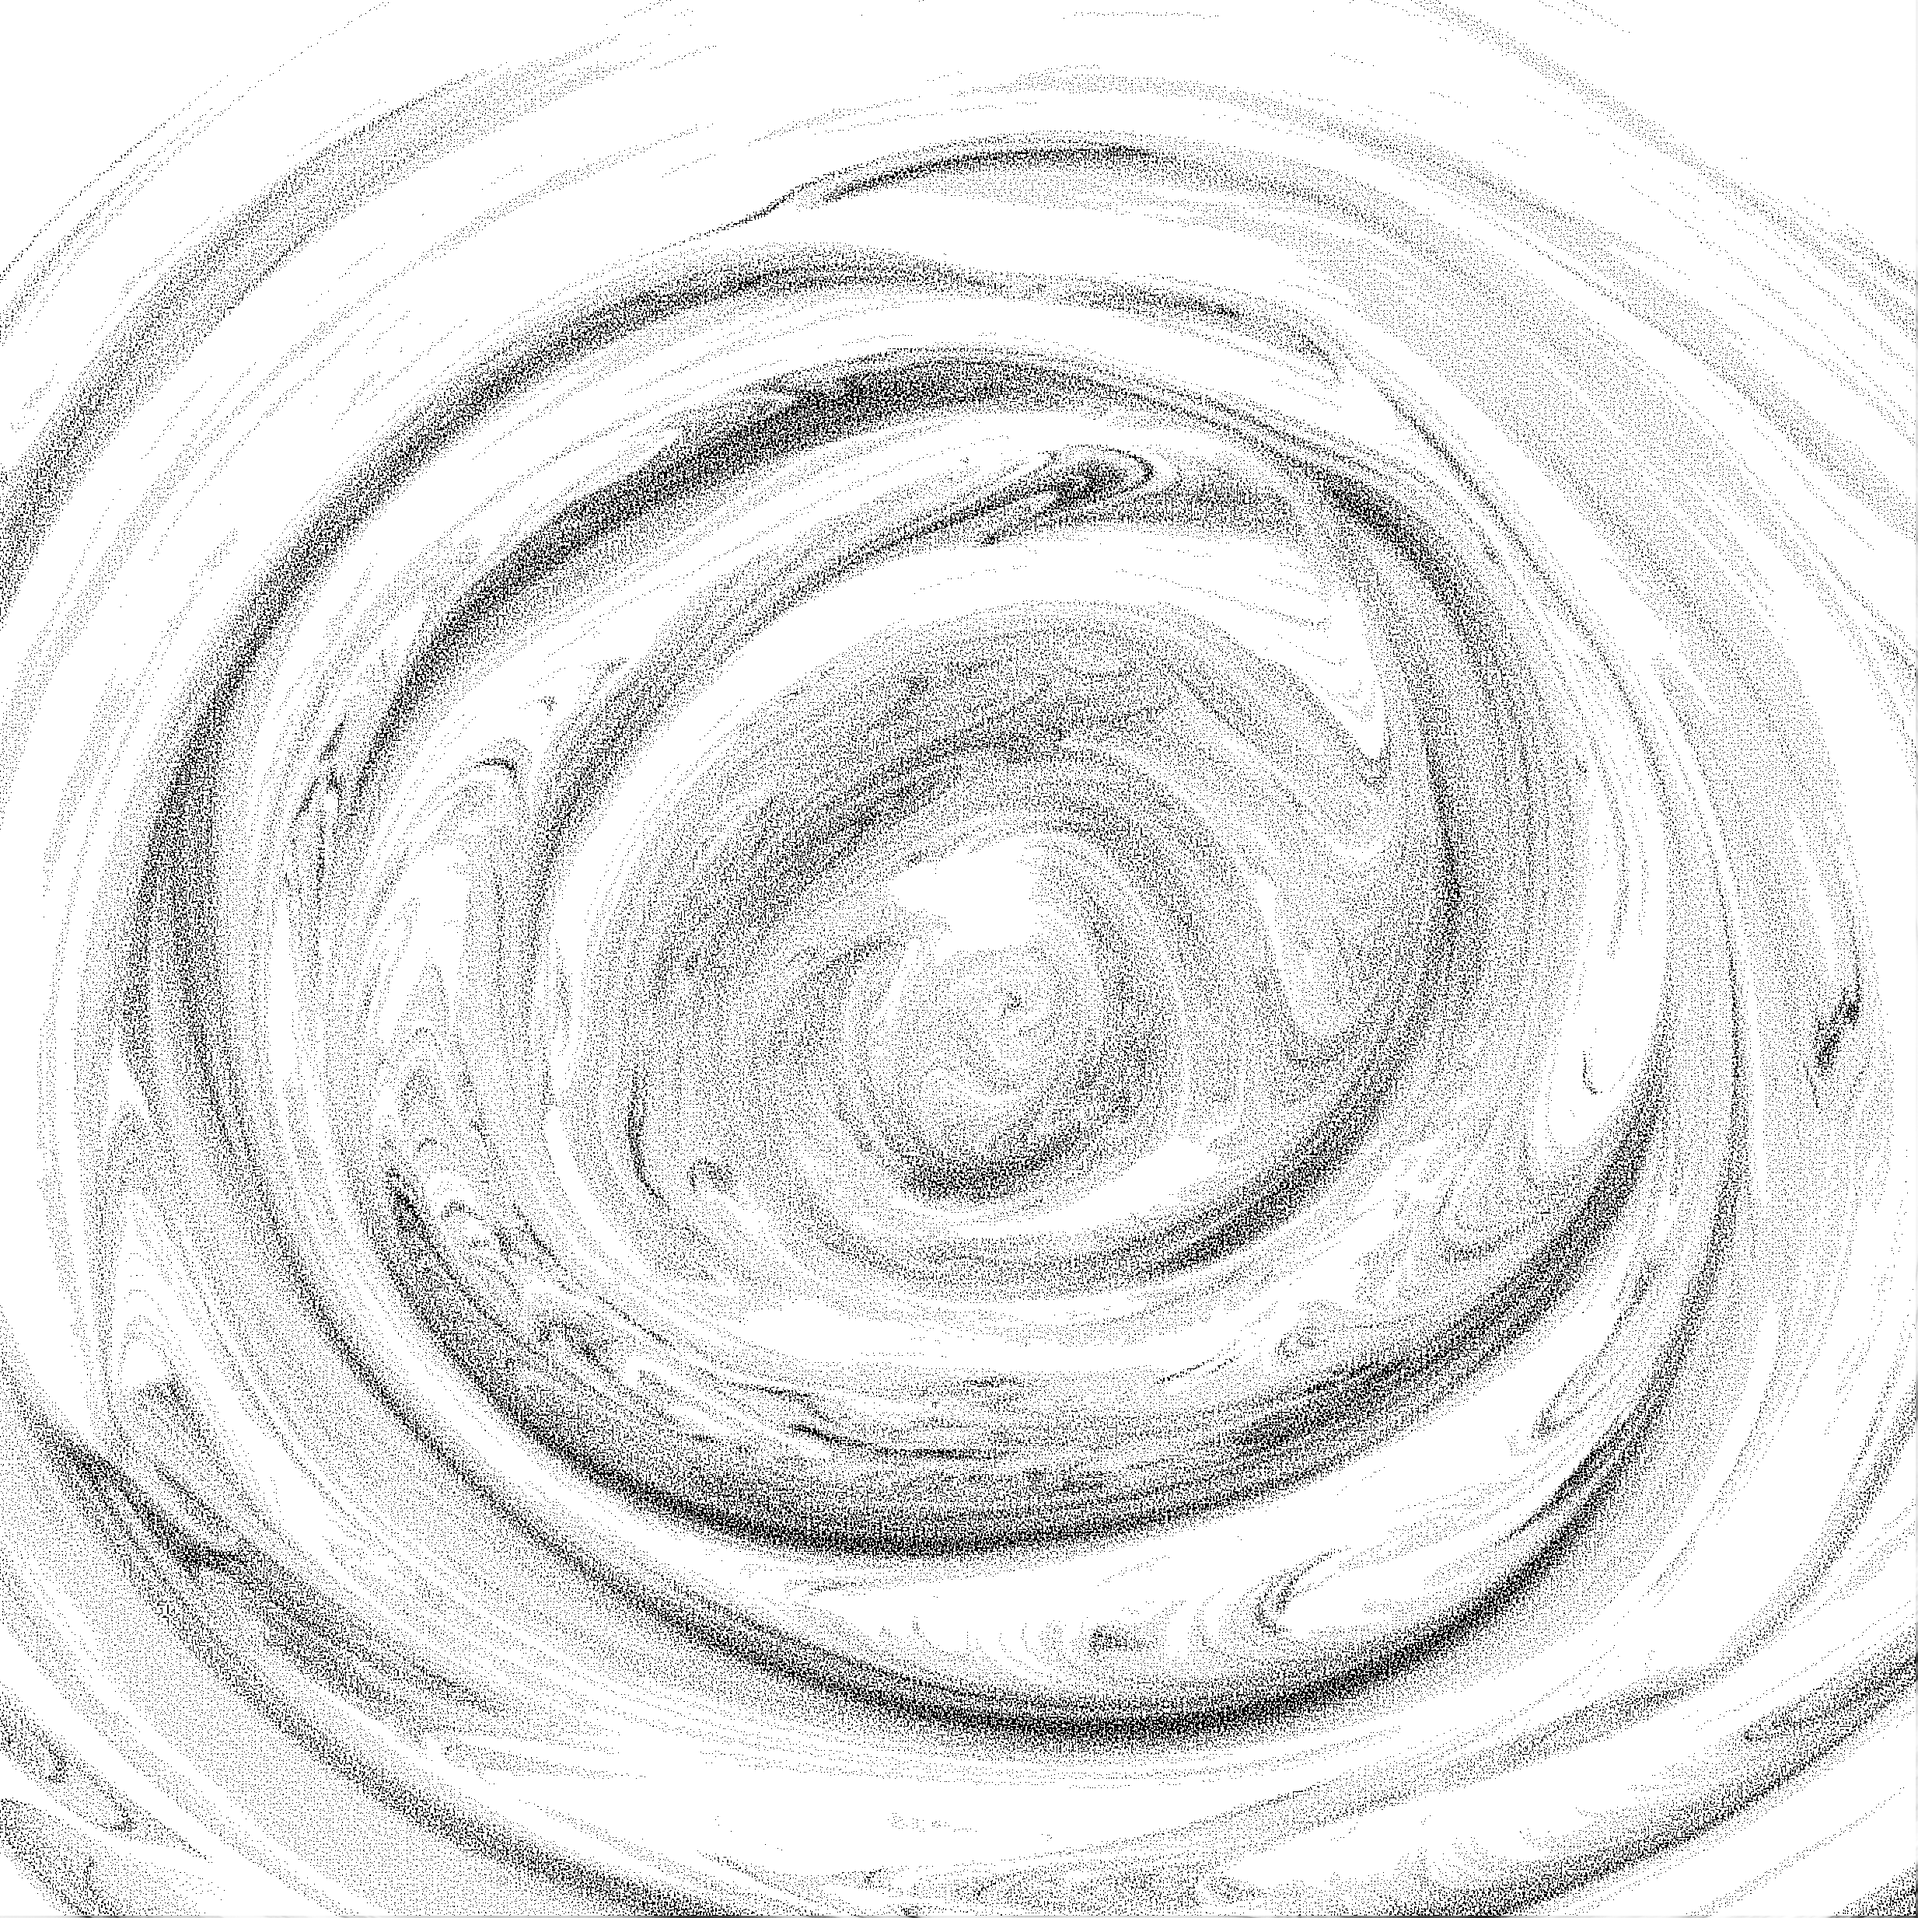
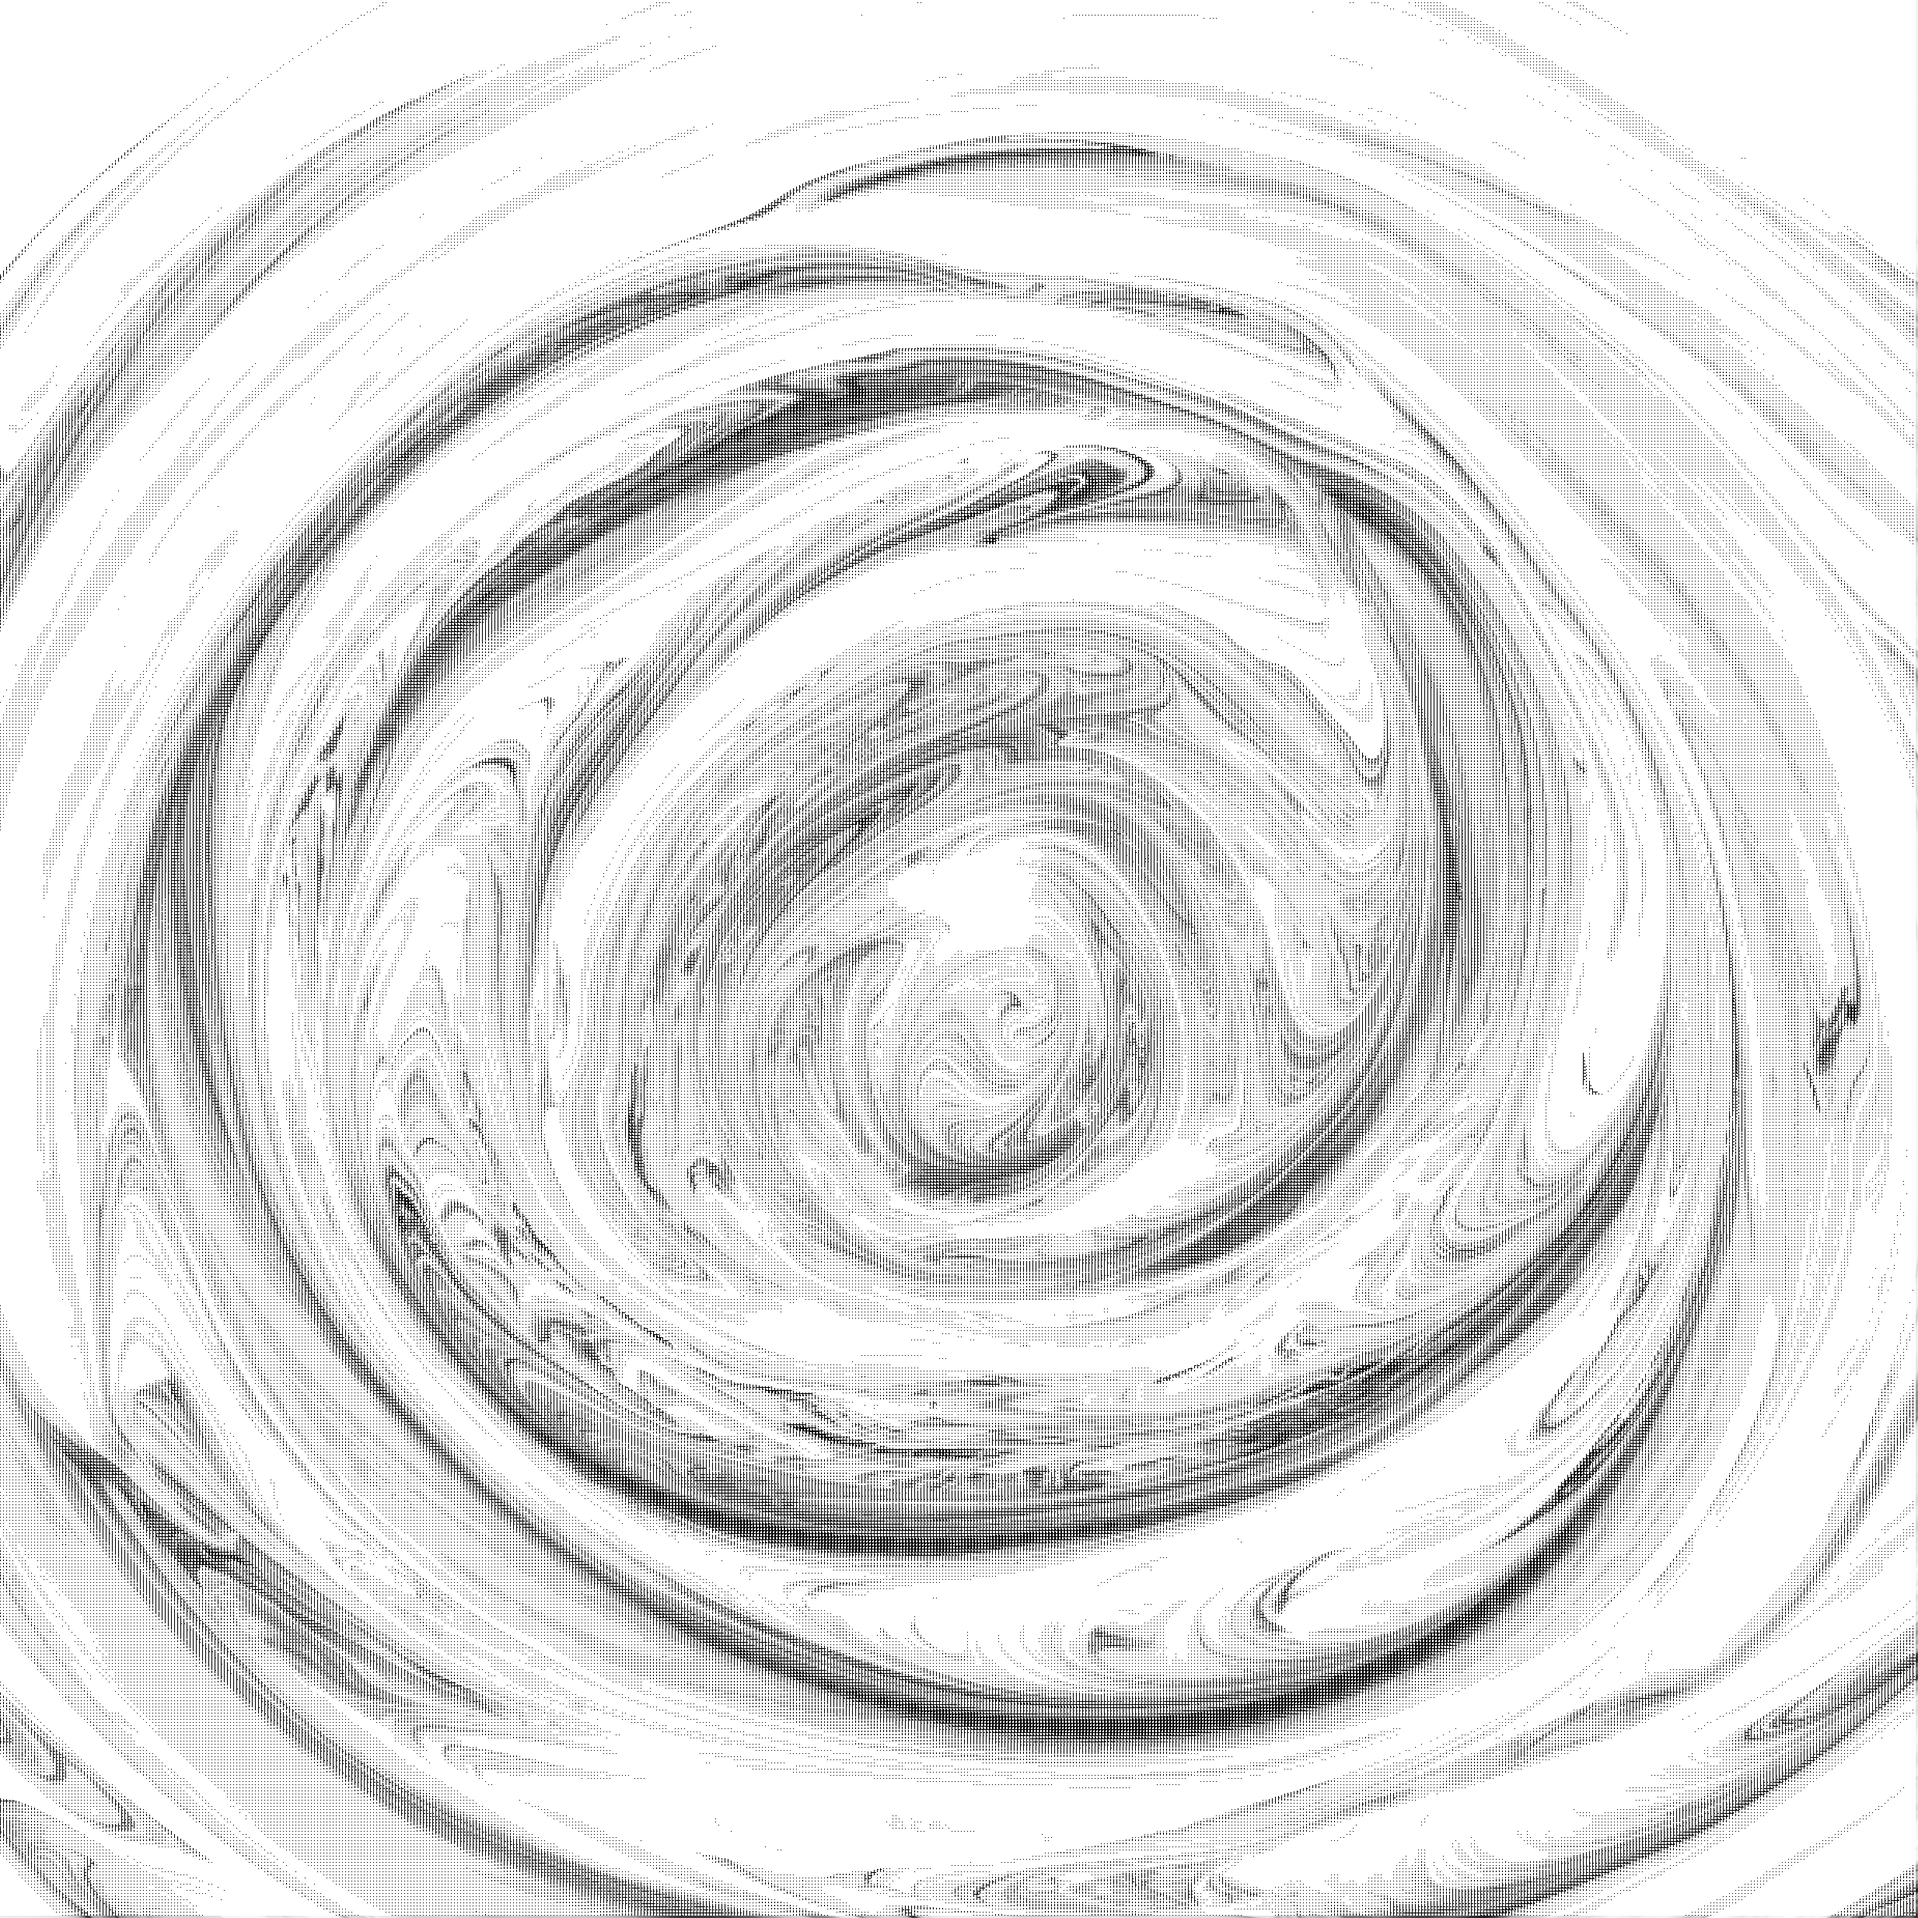
floyd-steinberg

diff --git a/src/Trame.java b/src/Trame.java
@@ -93,7 +93,7 @@ public class Trame {
 	}
 
 
-	BufferedImage traming(BufferedImage src) {
+	BufferedImage traming(BufferedImage src, boolean floydSteinberg) {
 		ColorModel cm = src.getColorModel();
 		boolean isAlphaPremultiplied = cm.isAlphaPremultiplied();
 		WritableRaster raster = src.copyData(null);
@@ -107,14 +107,53 @@ public class Trame {
 		for (int i = 0; i < t_x; i++)
 			for (int j = 0; j < t_y; j++) {
 				int tot = 0;
-				for (int x = 0; x < width; x++)
+				for (int x = 0; x < width; x++) {
 					for (int y = 0; y < height; y++) {
 						tot += image.getRGB(width * i + x, height * j + y) & 0xFF;
 					}
+				}
 				image.setRGB(width * i, height * j, width, height, patterns[tot / (height * width * width * height)], 0, width);
+				if(floydSteinberg) {
+					for (int x = 0; x < width; x++) {
+						for (int y = 0; y < height; y++) {
+							int srcPix = src.getRGB(width * i + x, height * j + y);
+							int tramedPix = image.getRGB(width * i + x, height * j + y);
+							int erreur = srcPix - tramedPix;
+							if(width * (i + 1) + x < src.getWidth() && width * (i - 1) + x > 0 && height * (j + 1) + y < src.getHeight() && height * j + y > 0) {
+								image.setRGB(width * (i + 1) + x, height * j + y, image.getRGB( width * (i + 1) + x, height * j + y) + 7/16 * erreur);
+								image.setRGB(width * (i - 1) + x, height * (j + 1) + y, image.getRGB( width * (i - 1) + x, height * (j + 1) + y) + 3/16 * erreur);
+								image.setRGB(width * i + x, height * (j + 1) + y, image.getRGB( width * i + x, height * (j + 1) + y) + 5/16 * erreur);
+								image.setRGB(width * (i + 1) + x, height * (j + 1) + y, image.getRGB( width * (i + 1) + x, height * (j + 1) + y) + 1/16 * erreur);
+							}
+
+						}
+					}
+
+				}
 			}
 
 		return image;
+	}
+
+	BufferedImage floydSteinberg(BufferedImage src, BufferedImage tramed) {
+
+		int t_x = tramed.getWidth() - tramed.getWidth() % width;
+		int t_y = tramed.getHeight() - tramed.getHeight() % height;
+
+		for (int i = 1; i < t_x - 1; i++)
+			for (int j = 1; j < t_y - 1; j++) {
+				int srcPix = src.getRGB(i, j);
+				int tramedPix = tramed.getRGB(i, j);
+				int erreur = srcPix - tramedPix;
+				System.out.println("erreur : " + erreur);
+				tramed.setRGB(i + 1, j, tramed.getRGB(i + 1, j) + 7/16 * erreur);
+				tramed.setRGB(i - 1, j + 1, tramed.getRGB(i - 1, j + 1) + 3/16 * erreur);
+				tramed.setRGB(i, j + 1, tramed.getRGB(i, j + 1) + 5/16 * erreur);
+				tramed.setRGB(i + 1, j + 1, tramed.getRGB(i + 1, j + 1) + 1/16 * erreur);
+			}
+
+		return tramed;
+
 	}
 
 	public static int[] gen_matrix(int centre) {
@@ -152,21 +191,21 @@ public class Trame {
 	}
 
 	public static int[] flatten(int[][] array2D) {
-        int totalLength = 0;
-        for (int[] row : array2D) {
-            totalLength += row.length;
-        }
+		int totalLength = 0;
+		for (int[] row : array2D) {
+			totalLength += row.length;
+		}
 
-        int[] flattenedArray = new int[totalLength];
-        int index = 0;
-        for (int[] row : array2D) {
-            for (int num : row) {
-                flattenedArray[index++] = num;
-            }
-        }
+		int[] flattenedArray = new int[totalLength];
+		int index = 0;
+		for (int[] row : array2D) {
+			for (int num : row) {
+				flattenedArray[index++] = num;
+			}
+		}
 
-        return flattenedArray;
-    }
+		return flattenedArray;
+	}
 
 	public static int[] gen_centered_matrix(int size, int center_x, int center_y, boolean black) {
 		// true si centré blanc 
@@ -243,18 +282,21 @@ public class Trame {
 		int m[] = gen_centered_matrix(4, 2, 2, true);
 
 		Trame t = new Trame(4, 4, m);
-		for (int i = 1; i < 8; i++) {
-			String path = "images/image" + i + ".png";
-			File input_file = new File(path);
-			try {
-				BufferedImage image = ImageIO.read(input_file);
-				BufferedImage n = t.randomTraming(image);
+		//for (int i = 1; i < 8; i++) {
+		int i = 5;
+		String path = "images/image" + i + ".png";
+		File input_file = new File(path);
+		try {
+			BufferedImage image = ImageIO.read(input_file);
+			//BufferedImage n = t.randomTraming(image);
+			BufferedImage n = t.traming(image, false);
+			n = t.floydSteinberg(image, n); 
 
-				File reduced = new File("output/trame/gen-trame" + i + ".png");
-				ImageIO.write(n, "png", reduced);
-			} catch (Exception e) {
-				e.printStackTrace();
-			}
+			File reduced = new File("output/trame/gen-trame" + i + ".png");
+			ImageIO.write(n, "png", reduced);
+		} catch (Exception e) {
+			e.printStackTrace();
 		}
+		//}
 	}
 }
